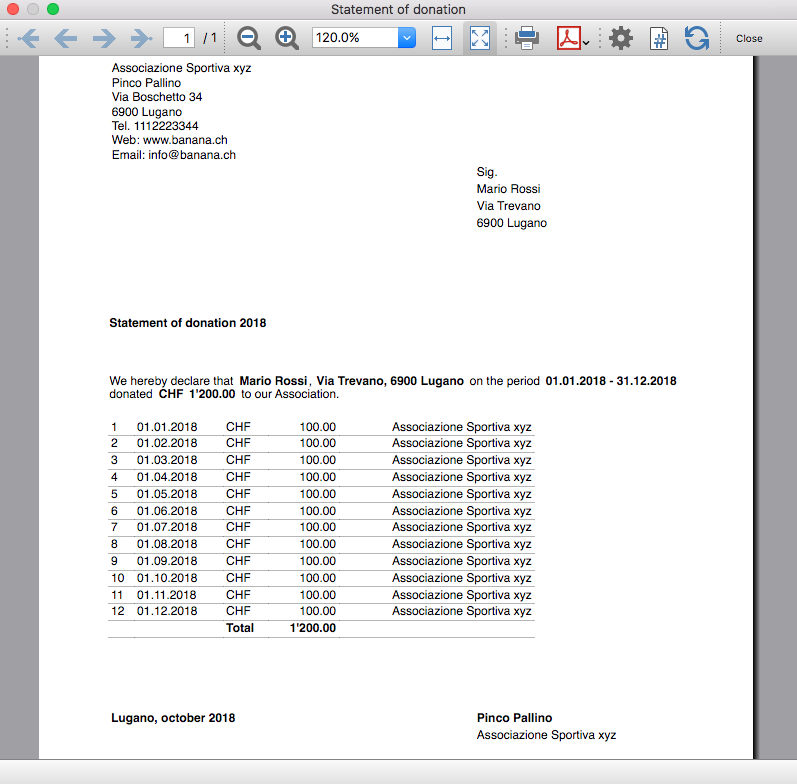
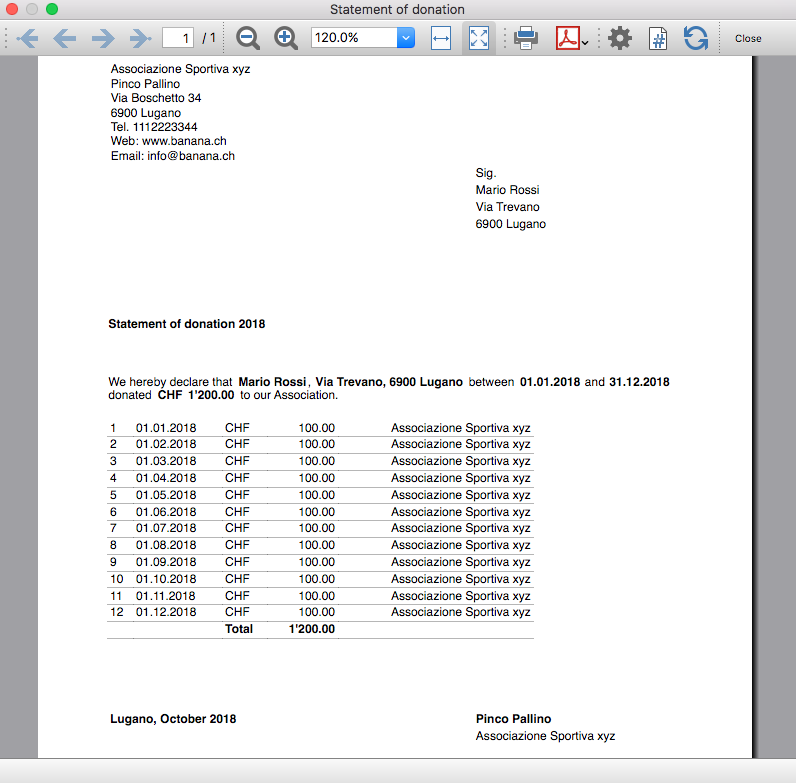
Added images

diff --git a/report/association/ch.banana.ch.app.attestatodonazione.js b/report/association/ch.banana.ch.app.attestatodonazione.js
@@ -104,6 +104,7 @@ function exec(inData, options) {
 function createReport(banDoc, startDate, endDate, userParam, donorsToPrint) {
 
     var report = Banana.Report.newReport(texts.title);
+    var lang = getLang(banDoc);
 
     for (var k = 0; k < donorsToPrint.length; k++) {
 
@@ -234,11 +235,17 @@ function createReport(banDoc, startDate, endDate, userParam, donorsToPrint) {
         } else {
             paragraph.addText(texts.text03, "");
             paragraph.addText(" ", "");
-            paragraph.addText(Banana.Converter.toLocaleDateFormat(startDate) + " - " + Banana.Converter.toLocaleDateFormat(endDate), "bold");
+            
+            if (lang !== "en") {
+                paragraph.addText(Banana.Converter.toLocaleDateFormat(startDate) + " - " + Banana.Converter.toLocaleDateFormat(endDate), "bold");
+            } else {
+                paragraph.addText(Banana.Converter.toLocaleDateFormat(startDate), "bold");
+                paragraph.addText(" and ", "");
+                paragraph.addText(Banana.Converter.toLocaleDateFormat(endDate), "bold");
+            }
         }
 
         // German text is inverted
-        var lang = getLang(banDoc);
         if (lang === "de") {
             paragraph.addText(" ", "");
             paragraph.addText(banDoc.info("AccountingDataBase", "BasicCurrency"), "bold");
@@ -691,7 +698,7 @@ function loadTexts(banDoc) {
         texts.donationDate = "Period";
         texts.text01 = "We hereby declare that";
         texts.text02 = "on";
-        texts.text03 = "on the period";
+        texts.text03 = "between";
         texts.text04 = "donated";
         texts.text05 = "to our Association.";
         texts.text06 = "Total";
